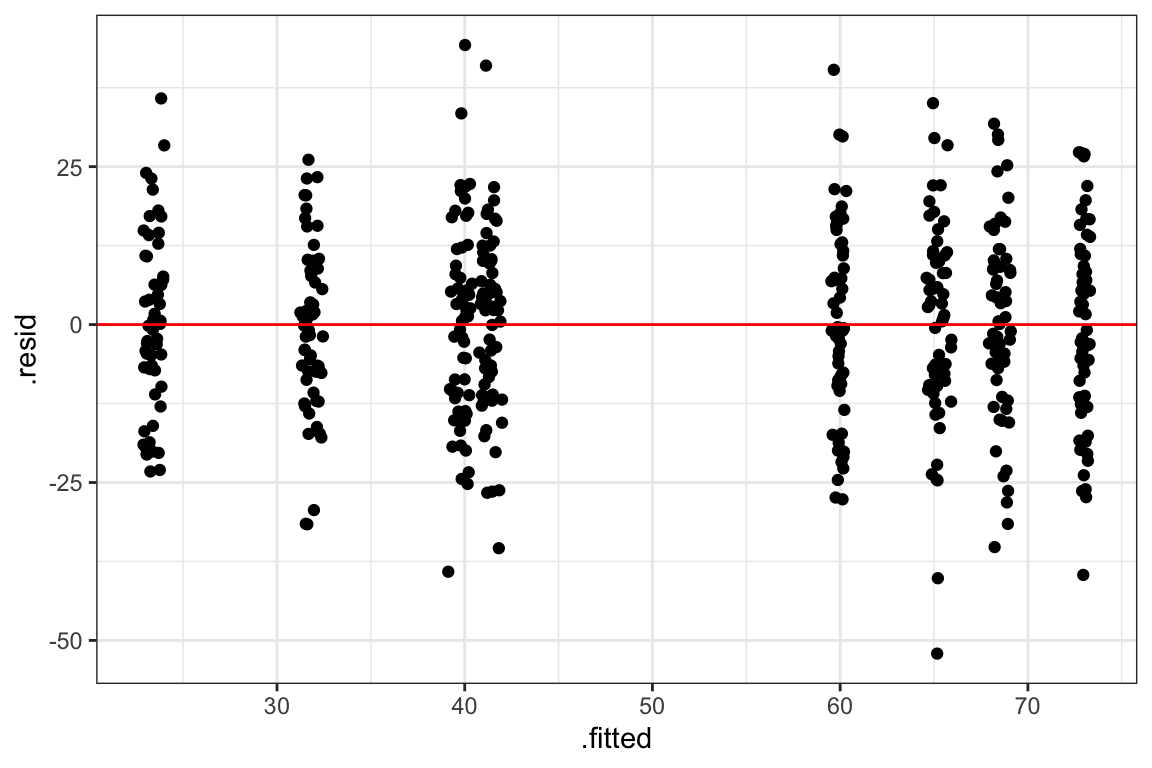
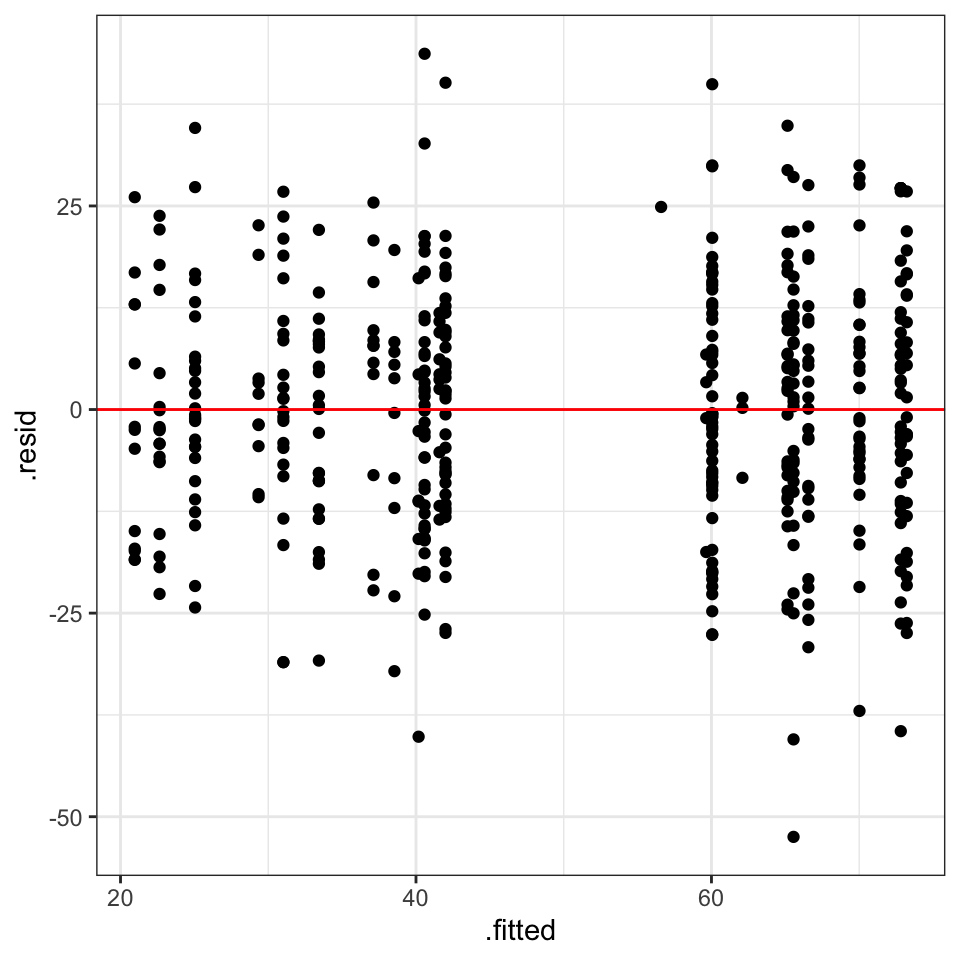
added text

diff --git a/docs/stat-modeling-mixed.html b/docs/stat-modeling-mixed.html
@@ -466,7 +466,7 @@ code span.wa { color: #60a0b0; font-weight: bold; font-style: italic; } /* Warni
 </header><div class="cell">
 
 </div>
-<p><em>Version vom October 10, 2022 um 08:22:48</em></p>
+<p><em>Version vom October 10, 2022 um 09:49:58</em></p>
 <div class="quarto-figure quarto-figure-center">
 <figure class="figure"><p><img src="images/caution.png" class="img-fluid figure-img" style="width:50.0%"></p>
 </figure>
@@ -675,7 +675,7 @@ y \sim f_1 + 1|z_1/z_2
 <div class="cell-output-display">
 <div id="fig-mixed-6" class="quarto-figure quarto-figure-center anchored">
 <figure class="figure"><p><img src="stat-modeling-mixed_files/figure-html/fig-mixed-6-1.png" class="img-fluid figure-img" width="576"></p>
-<p></p><figcaption aria-hidden="true" class="figure-caption">Abbildung 38.4— foo</figcaption><p></p>
+<p></p><figcaption aria-hidden="true" class="figure-caption">Abbildung 38.4— QQ-Plot zu Überprüfung, ob der Testscore einer Normalverteilung folgt. Die Punkte liegen ungefähr auf der Geraden als Winkelhalbierende, so dass wi eine Normalverteilung des Testscores annehmen können.</figcaption><p></p>
 </figure>
 </div>
 </div>
@@ -762,6 +762,7 @@ mountain range [Sarntal]   |       41.03 | 3.30 | [34.54, 47.53] |  12.42 | &lt;
 </div>
 </div>
 </div>
+<p>Der Zusammenhang wird vielleicht in <a href="#fig-mixed-7">Abbildung&nbsp;<span>38.8</span></a> nochmal klarer. Hier schauen wir uns den Zusamenhang wieder für die Körperlänge getrennt für die Berge an. Nur zeichnen wir jetzt jeden einzelnen Berg in ein Subplot. Wir sehen, dass es hier fast keinen Unterschied macht, wie lang die Drachen sind. Der Testscore ist immer gleich. Was einen Unterschied macht, sind die Berge.</p>
 <div class="cell" data-layout-align="center">
 <div class="sourceCode" id="cb13"><pre class="downlit sourceCode r code-with-copy"><code class="sourceCode R"><span><span class="fu">ggplot</span><span class="op">(</span><span class="va">dragons_tbl</span>, <span class="fu">aes</span><span class="op">(</span>x <span class="op">=</span> <span class="va">body_length_cat</span>, y <span class="op">=</span> <span class="va">test_score</span>, fill <span class="op">=</span> <span class="va">mountain_range</span><span class="op">)</span><span class="op">)</span> <span class="op">+</span></span>
 <span>  <span class="fu">geom_boxplot</span><span class="op">(</span>position <span class="op">=</span> <span class="fu">position_dodge</span><span class="op">(</span>preserve <span class="op">=</span> <span class="st">"single"</span><span class="op">)</span><span class="op">)</span> <span class="op">+</span></span>
@@ -773,113 +774,191 @@ mountain range [Sarntal]   |       41.03 | 3.30 | [34.54, 47.53] |  12.42 | &lt;
 <div class="cell-output-display">
 <div id="fig-mixed-7" class="quarto-figure quarto-figure-center anchored">
 <figure class="figure"><p><img src="stat-modeling-mixed_files/figure-html/fig-mixed-7-1.png" class="img-fluid figure-img" width="576"></p>
-<p></p><figcaption aria-hidden="true" class="figure-caption">Abbildung 38.8— foo</figcaption><p></p>
+<p></p><figcaption aria-hidden="true" class="figure-caption">Abbildung 38.8— Boxplots der einzelnen Testscores aufgeteilt nach dem Berg der Befragung und der Körpergröße in getrennten Subplots.</figcaption><p></p>
 </figure>
 </div>
 </div>
 </div>
+<p>Schauen wir uns nun einmal ein lineares gemischtes Modell an. Wir nutzen daszu das R Paket <code>lme4</code>. Wir haben auch noch andere Pakete zur Aswahl, aber wir nutzen hier erstmal das gängiste Paket. Um ein lineares gemischtes Modell in R zu schätzen nutzen wir die Funktion <code>lmer()</code>. Die Funktion <code>lmer()</code> nimmt an, dass das Outcome <code>test_score</code> normalverteilt ist. Wir haben diese Annahme ja weiter oben in dem QQ-Plot überprüft.</p>
+<p>In einem lineare gemischten Modell müssen wir die <em>festen</em> Effekte sowie die <em>zufälligen</em> Effekte definieren. Die festen Effekte werden ganz normal wie wir es gewohnt sind in das Modell eingegeben. Die zufälligen Effkete schreiben wir in eine Klammer in der Form <code>(1|)</code>.</p>
+<p>Wir schreiben <code>(1|moutain_range)</code> und definieren damit die Variable <code>mountain_range</code> als zufälligen Effekt im Modell. Wir schreiben <code>1|</code> vor <code>mountain_range</code>, da wir für jeden Berg die gleiche Steigung von Körperlänge und Testscore annehmen. Wir können dann später noch das Model komplizierter aufbauen und jedem Berg eine eigene Steigung erlauben. Bauen wir uns jetzt erstmal ein lineares gemischtes Modell mit einem festen Effekt <code>body_length_cat</code> und einem zufälligen Effekt <code>(1|mountain_range)</code>.</p>
 <div class="cell">
-<div class="sourceCode" id="cb14"><pre class="downlit sourceCode r code-with-copy"><code class="sourceCode R"><span><span class="va">lmer_1_fit</span> <span class="op">&lt;-</span> <span class="fu">lmer</span><span class="op">(</span><span class="va">test_score</span> <span class="op">~</span> <span class="va">body_length</span> <span class="op">+</span> <span class="op">(</span><span class="fl">1</span> <span class="op">|</span> <span class="va">mountain_range</span><span class="op">)</span>, data <span class="op">=</span> <span class="va">dragons_tbl</span><span class="op">)</span></span>
+<div class="sourceCode" id="cb14"><pre class="downlit sourceCode r code-with-copy"><code class="sourceCode R"><span><span class="va">lmer_1_fit</span> <span class="op">&lt;-</span> <span class="fu">lmer</span><span class="op">(</span><span class="va">test_score</span> <span class="op">~</span> <span class="va">body_length_cat</span> <span class="op">+</span> <span class="op">(</span><span class="fl">1</span> <span class="op">|</span> <span class="va">mountain_range</span><span class="op">)</span>, data <span class="op">=</span> <span class="va">dragons_tbl</span><span class="op">)</span></span>
 <span><span class="va">lmer_1_fit</span> <span class="op">%&gt;%</span> <span class="fu">model_parameters</span><span class="op">(</span><span class="op">)</span></span></code><button title="In die Zwischenablage kopieren" class="code-copy-button"><i class="bi"></i></button></pre></div>
 <div class="cell-output cell-output-stdout">
 <pre><code># Fixed Effects
 
-Parameter   | Coefficient |    SE |         95% CI | t(476) |     p
--------------------------------------------------------------------
-(Intercept) |       43.72 | 17.14 | [10.05, 77.39] |   2.55 | 0.011
-body length |        0.03 |  0.08 | [-0.12,  0.19] |   0.42 | 0.674
+Parameter                  | Coefficient |   SE |         95% CI | t(473) |      p
+----------------------------------------------------------------------------------
+(Intercept)                |       46.85 | 7.43 | [32.25, 61.45] |   6.30 | &lt; .001
+body length cat [small]    |        1.68 | 3.89 | [-5.97,  9.33] |   0.43 | 0.666 
+body length cat [medium]   |        4.08 | 3.71 | [-3.20, 11.37] |   1.10 | 0.271 
+body length cat [large]    |        4.49 | 4.27 | [-3.90, 12.88] |   1.05 | 0.293 
+body length cat [gigantic] |        1.03 | 4.81 | [-8.43, 10.49] |   0.21 | 0.831 
 
 # Random Effects
 
 Parameter                      | Coefficient |   SE |         95% CI
 --------------------------------------------------------------------
-SD (Intercept: mountain_range) |       18.43 | 5.00 | [10.83, 31.36]
+SD (Intercept: mountain_range) |       18.21 | 4.94 | [10.70, 30.98]
 SD (Residual)                  |       14.96 | 0.49 | [14.03, 15.95]</code></pre>
 </div>
 </div>
+<p>Unser Model sieht etwas aufgeräumter aus. Als feste Effekte haben wir nur noch die Körperlänge <code>body_length_cat</code> und die dazugehörigen Koeffizienten des Modells. Unsere Variable <code>mountain_range</code> verschwindet dann in den zufälligen Effekten. Die Funktion <code>summary</code> liefert uns den gesamten Ausdruck, der etwas überwältigend ist. Vieles brauchen wir auch nicht davon.</p>
 <div class="cell column-page">
-<div class="sourceCode" id="cb16"><pre class="downlit sourceCode r code-with-copy"><code class="sourceCode R"><span><span class="va">lmer_1_fit</span> <span class="op">%&gt;%</span> <span class="fu">model_performance</span><span class="op">(</span><span class="op">)</span></span></code><button title="In die Zwischenablage kopieren" class="code-copy-button"><i class="bi"></i></button></pre></div>
+<div class="sourceCode" id="cb16"><pre class="downlit sourceCode r code-with-copy"><code class="sourceCode R"><span><span class="va">lmer_1_fit</span> <span class="op">%&gt;%</span> <span class="fu"><a href="https://rdrr.io/r/base/summary.html">summary</a></span><span class="op">(</span><span class="op">)</span></span></code><button title="In die Zwischenablage kopieren" class="code-copy-button"><i class="bi"></i></button></pre></div>
+<div class="cell-output cell-output-stdout">
+<pre><code>Linear mixed model fit by REML ['lmerMod']
+Formula: test_score ~ body_length_cat + (1 | mountain_range)
+   Data: dragons_tbl
+
+REML criterion at convergence: 3969.4
+
+Scaled residuals: 
+     Min       1Q   Median       3Q      Max 
+-3.50749 -0.65640 -0.00040  0.63783  2.92009 
+
+Random effects:
+ Groups         Name        Variance Std.Dev.
+ mountain_range (Intercept) 331.42   18.205  
+ Residual                   223.83   14.961  
+Number of obs: 480, groups:  mountain_range, 8
+
+Fixed effects:
+                        Estimate Std. Error t value
+(Intercept)              46.8501     7.4310  6.3047
+body_length_catsmall      1.6794     3.8930  0.4314
+body_length_catmedium     4.0837     3.7084  1.1012
+body_length_catlarge      4.4895     4.2684  1.0518
+body_length_catgigantic   1.0296     4.8131  0.2139
+
+Correlation of Fixed Effects:
+              (Intr) bdy_lngth_cts bdy_lngth_ctm bdy_lngth_ctl
+bdy_lngth_cts -0.338                                          
+bdy_lngth_ctm -0.461  0.677                                   
+bdy_lngth_ctl -0.480  0.589         0.865                     
+bdy_lngth_ctg -0.434  0.522         0.767         0.856       </code></pre>
+</div>
+</div>
+<p>Was wir extrahieren wollen ist die Information von den zufälligen Effekten. Wir wollen wissen, wieviel Varianz durch die zufälligen Effekte erklärt wird. Wir nutzen dazu die Funktion <code>VarCorr()</code>, die uns erlaubt die Information zu en zufälligen Effekten zu extrahieren und auszugeben.</p>
+<div class="cell">
+<div class="sourceCode" id="cb18"><pre class="downlit sourceCode r code-with-copy"><code class="sourceCode R"><span><span class="fu"><a href="https://rdrr.io/r/base/print.html">print</a></span><span class="op">(</span><span class="fu">VarCorr</span><span class="op">(</span><span class="va">lmer_1_fit</span><span class="op">)</span>, comp <span class="op">=</span> <span class="st">"Variance"</span><span class="op">)</span></span></code><button title="In die Zwischenablage kopieren" class="code-copy-button"><i class="bi"></i></button></pre></div>
+<div class="cell-output cell-output-stdout">
+<pre><code> Groups         Name        Variance
+ mountain_range (Intercept) 331.422 
+ Residual                   223.828 </code></pre>
+</div>
+</div>
+<p>Wieviel Varianz erklären nun die Berge? Wir können die erklärte Varianz der zufälligen Effekte einfach berechnen. Wir vergleichen die erklärte Varianz von <code>mountain_range</code> mit der gesamten Varianz. Die gesamte Varianz ist die Varianz aller zufälligen Effekte plus der residualen Vamrianz. Wir erhalten dann <span class="math inline">\(R^2_{random} = 339.7/(339.7 + 223.8) \approx 0.60\)</span>. Wir sehen, dass ca. 60% der Varianz in unseren Daten von der Variable <code>mountain_range</code> verursacht wird.</p>
+<p>Wir können die Funktion <code>model_performance()</code> nutzen um mehr über den Fit des Modells zu erfahren. Das <code>R2 (cond.)</code> ist faktisch das gleiche wie wir gerade oben berechnet haben. Wir benötigen also nicht immer den Ausdruck der zufälligen Effekte. Wir können auch die Informationen aus der Funktion <code>model_performance()</code> nehmen.</p>
+<div class="cell">
+<div class="sourceCode" id="cb20"><pre class="downlit sourceCode r code-with-copy"><code class="sourceCode R"><span><span class="va">lmer_1_fit</span> <span class="op">%&gt;%</span> <span class="fu">model_performance</span><span class="op">(</span><span class="op">)</span></span></code><button title="In die Zwischenablage kopieren" class="code-copy-button"><i class="bi"></i></button></pre></div>
 <div class="cell-output cell-output-stdout">
 <pre><code># Indices of model performance
 
 AIC      |     AICc |      BIC | R2 (cond.) | R2 (marg.) |   ICC |   RMSE |  Sigma
 ----------------------------------------------------------------------------------
-3999.203 | 3999.287 | 4015.898 |      0.603 |  5.117e-04 | 0.603 | 14.821 | 14.960</code></pre>
+3983.403 | 3983.640 | 4012.620 |      0.598 |      0.004 | 0.597 | 14.774 | 14.961</code></pre>
 </div>
 </div>
-<div class="cell" data-layout-align="center">
-<div class="sourceCode" id="cb18"><pre class="downlit sourceCode r code-with-copy"><code class="sourceCode R"><span><span class="fu">augment</span><span class="op">(</span><span class="va">lmer_1_fit</span><span class="op">)</span> <span class="op">%&gt;%</span> </span>
-<span>  <span class="fu">ggplot</span><span class="op">(</span><span class="fu">aes</span><span class="op">(</span>x <span class="op">=</span> <span class="va">.fitted</span>, y <span class="op">=</span> <span class="va">.resid</span><span class="op">)</span><span class="op">)</span> <span class="op">+</span> </span>
-<span>  <span class="fu">geom_point</span><span class="op">(</span><span class="op">)</span> <span class="op">+</span></span>
-<span>  <span class="fu">geom_hline</span><span class="op">(</span>yintercept <span class="op">=</span> <span class="fl">0</span>, color <span class="op">=</span> <span class="st">"red"</span><span class="op">)</span> <span class="op">+</span></span>
-<span>  <span class="fu">theme_bw</span><span class="op">(</span><span class="op">)</span> <span class="op">+</span></span>
-<span>  <span class="fu">scale_color_okabeito</span><span class="op">(</span><span class="op">)</span></span></code><button title="In die Zwischenablage kopieren" class="code-copy-button"><i class="bi"></i></button></pre></div>
-<div class="cell-output-display">
-<div id="fig-mixed-8" class="quarto-figure quarto-figure-center anchored">
-<figure class="figure"><p><img src="stat-modeling-mixed_files/figure-html/fig-mixed-8-1.png" class="img-fluid figure-img" width="576"></p>
-<p></p><figcaption aria-hidden="true" class="figure-caption">Abbildung 38.9— foo</figcaption><p></p>
+<p>In der Abbildung <a href="#fig-mixed-8">Abbildung&nbsp;<span>38.9</span></a> schauen wir uns nochmal an, ob wir das Modell auch gut gefittet haben. Der Residualplot sieht gut aus, wir erkennen kein Muster. Ebenso sieht der QQ-Plot gut aus, die Beobachtungen liegen alle auf der Geraden. Wir sind mit dem Modell soweit erstmal ganz zufrieden.</p>
+<div id="fig-mixed-8" class="cell column-page quarto-layout-panel">
+<figure class="figure"><div class="quarto-layout-row quarto-layout-valign-top">
+<div class="cell-output-display quarto-layout-cell quarto-layout-cell-subref" style="flex-basis: 50.0%;justify-content: center;">
+<div id="fig-mixed-8-1" class="quarto-figure quarto-figure-center anchored">
+<figure class="figure"><p><img src="stat-modeling-mixed_files/figure-html/fig-mixed-8-1.png" class="img-fluid figure-img" data-ref-parent="fig-mixed-8" width="480"></p>
+<p></p><figcaption aria-hidden="true" class="figure-caption">(a) Residualplot</figcaption><p></p>
+</figure>
+</div>
+</div>
+<div class="cell-output-display quarto-layout-cell quarto-layout-cell-subref" style="flex-basis: 50.0%;justify-content: center;">
+<div id="fig-mixed-8-2" class="quarto-figure quarto-figure-center anchored">
+<figure class="figure"><p><img src="stat-modeling-mixed_files/figure-html/fig-mixed-8-2.png" class="img-fluid figure-img" data-ref-parent="fig-mixed-8" width="480"></p>
+<p></p><figcaption aria-hidden="true" class="figure-caption">(b) QQ-Plot</figcaption><p></p>
 </figure>
 </div>
 </div>
 </div>
-<div class="cell" data-layout-align="center">
-<div class="sourceCode" id="cb19"><pre class="downlit sourceCode r code-with-copy"><code class="sourceCode R"><span><span class="fu">ggplot</span><span class="op">(</span><span class="fu">tibble</span><span class="op">(</span>.resid <span class="op">=</span> <span class="fu"><a href="https://rdrr.io/r/stats/residuals.html">resid</a></span><span class="op">(</span><span class="va">lmer_1_fit</span><span class="op">)</span><span class="op">)</span>, <span class="fu">aes</span><span class="op">(</span>sample <span class="op">=</span> <span class="va">.resid</span><span class="op">)</span><span class="op">)</span> <span class="op">+</span> </span>
-<span>  <span class="fu">stat_qq</span><span class="op">(</span><span class="op">)</span> <span class="op">+</span> </span>
-<span>  <span class="fu">stat_qq_line</span><span class="op">(</span>color <span class="op">=</span> <span class="st">"red"</span><span class="op">)</span> <span class="op">+</span></span>
-<span>  <span class="fu">theme_bw</span><span class="op">(</span><span class="op">)</span></span></code><button title="In die Zwischenablage kopieren" class="code-copy-button"><i class="bi"></i></button></pre></div>
-<div class="cell-output-display">
-<div id="fig-mixed-9" class="quarto-figure quarto-figure-center anchored">
-<figure class="figure"><p><img src="stat-modeling-mixed_files/figure-html/fig-mixed-9-1.png" class="img-fluid figure-img" width="576"></p>
-<p></p><figcaption aria-hidden="true" class="figure-caption">Abbildung 38.10— foo</figcaption><p></p>
+<p></p><figcaption aria-hidden="true" class="figure-caption">Abbildung 38.9— Visuelle Überprüfung des Modells mit dem Residual und QQ-Plot.</figcaption><p></p>
 </figure>
-</div>
-</div>
 </div>
 <div class="cell">
-<div class="sourceCode" id="cb20"><pre class="downlit sourceCode r code-with-copy"><code class="sourceCode R"><span><span class="va">lmer_2_fit</span> <span class="op">&lt;-</span> <span class="fu">lmer</span><span class="op">(</span><span class="va">test_score</span> <span class="op">~</span> <span class="va">body_length</span> <span class="op">+</span> <span class="op">(</span><span class="fl">1</span><span class="op">|</span><span class="va">mountain_range</span><span class="op">/</span><span class="va">site</span><span class="op">)</span>, data <span class="op">=</span> <span class="va">dragons_tbl</span><span class="op">)</span> </span>
+<div class="sourceCode" id="cb22"><pre class="downlit sourceCode r code-with-copy"><code class="sourceCode R"><span><span class="va">lmer_2_fit</span> <span class="op">&lt;-</span> <span class="fu">lmer</span><span class="op">(</span><span class="va">test_score</span> <span class="op">~</span> <span class="va">body_length_cat</span> <span class="op">+</span> <span class="op">(</span><span class="fl">1</span><span class="op">|</span><span class="va">mountain_range</span><span class="op">/</span><span class="va">site</span><span class="op">)</span>, data <span class="op">=</span> <span class="va">dragons_tbl</span><span class="op">)</span> </span>
 <span><span class="va">lmer_2_fit</span> <span class="op">%&gt;%</span> <span class="fu">model_parameters</span><span class="op">(</span><span class="op">)</span></span></code><button title="In die Zwischenablage kopieren" class="code-copy-button"><i class="bi"></i></button></pre></div>
 <div class="cell-output cell-output-stdout">
 <pre><code># Fixed Effects
 
-Parameter   | Coefficient |    SE |         95% CI | t(475) |     p
--------------------------------------------------------------------
-(Intercept) |       40.08 | 21.86 | [-2.88, 83.05] |   1.83 | 0.067
-body length |        0.05 |  0.10 | [-0.15,  0.25] |   0.49 | 0.622
+Parameter                  | Coefficient |   SE |          95% CI | t(472) |      p
+-----------------------------------------------------------------------------------
+(Intercept)                |       46.89 | 7.80 | [ 31.56, 62.22] |   6.01 | &lt; .001
+body length cat [small]    |        1.32 | 3.99 | [ -6.51,  9.16] |   0.33 | 0.740 
+body length cat [medium]   |        3.34 | 4.61 | [ -5.73, 12.41] |   0.72 | 0.470 
+body length cat [large]    |        4.85 | 5.15 | [ -5.26, 14.97] |   0.94 | 0.346 
+body length cat [gigantic] |        1.37 | 5.83 | [-10.08, 12.83] |   0.24 | 0.814 
 
 # Random Effects
 
 Parameter                           | Coefficient |   SE |         95% CI
 -------------------------------------------------------------------------
-SD (Intercept: site:mountain_range) |        4.81 | 1.26 | [ 2.87,  8.03]
-SD (Intercept: mountain_range)      |       18.10 | 5.04 | [10.49, 31.23]
-SD (Residual)                       |       14.44 | 0.48 | [13.53, 15.41]</code></pre>
+SD (Intercept: site:mountain_range) |        4.79 | 1.29 | [ 2.83,  8.12]
+SD (Intercept: mountain_range)      |       17.88 | 4.97 | [10.36, 30.84]
+SD (Residual)                       |       14.46 | 0.48 | [13.55, 15.43]</code></pre>
+</div>
+</div>
+<div class="cell">
+<div class="sourceCode" id="cb24"><pre class="downlit sourceCode r code-with-copy"><code class="sourceCode R"><span><span class="va">lmer_3_fit</span> <span class="op">&lt;-</span> <span class="fu">lmer</span><span class="op">(</span><span class="va">test_score</span> <span class="op">~</span> <span class="va">body_length_cat</span> <span class="op">+</span> <span class="op">(</span><span class="va">site</span><span class="op">|</span><span class="va">mountain_range</span><span class="op">)</span>, data <span class="op">=</span> <span class="va">dragons_tbl</span><span class="op">)</span> </span>
+<span><span class="va">lmer_3_fit</span> <span class="op">%&gt;%</span> <span class="fu">model_parameters</span><span class="op">(</span><span class="op">)</span></span></code><button title="In die Zwischenablage kopieren" class="code-copy-button"><i class="bi"></i></button></pre></div>
+<div class="cell-output cell-output-stdout">
+<pre><code># Fixed Effects
+
+Parameter                  | Coefficient |   SE |          95% CI | t(468) |      p
+-----------------------------------------------------------------------------------
+(Intercept)                |       44.69 | 7.52 | [ 29.91, 59.46] |   5.94 | &lt; .001
+body length cat [small]    |        1.08 | 3.96 | [ -6.70,  8.86] |   0.27 | 0.785 
+body length cat [medium]   |        3.61 | 4.75 | [ -5.72, 12.94] |   0.76 | 0.447 
+body length cat [large]    |        5.13 | 5.25 | [ -5.17, 15.44] |   0.98 | 0.328 
+body length cat [gigantic] |        1.69 | 5.99 | [-10.08, 13.47] |   0.28 | 0.778 
+
+# Random Effects
+
+Parameter                                 | Coefficient |   SE |         95% CI
+-------------------------------------------------------------------------------
+SD (Intercept: mountain_range)            |       17.97 | 5.01 | [10.40, 31.05]
+SD (siteeast: mountain_range)             |        5.42 | 6.23 | [ 0.57, 51.48]
+SD (sitesouth: mountain_range)            |        8.31 | 2.89 | [ 4.21, 16.42]
+Cor (Intercept~siteeast: mountain_range)  |       -0.23 | 0.52 | [-0.87,  0.69]
+Cor (Intercept~sitesouth: mountain_range) |    7.15e-03 | 0.17 | [-0.32,  0.34]
+Cor (siteeast~sitesouth: mountain_range)  |        0.66 | 0.65 | [-0.89,  1.00]
+SD (Residual)                             |       14.46 | 0.48 | [13.55, 15.44]</code></pre>
 </div>
 </div>
 <div class="cell column-page">
-<div class="sourceCode" id="cb22"><pre class="downlit sourceCode r code-with-copy"><code class="sourceCode R"><span><span class="va">lmer_2_fit</span> <span class="op">%&gt;%</span> <span class="fu">model_performance</span><span class="op">(</span><span class="op">)</span></span></code><button title="In die Zwischenablage kopieren" class="code-copy-button"><i class="bi"></i></button></pre></div>
+<div class="sourceCode" id="cb26"><pre class="downlit sourceCode r code-with-copy"><code class="sourceCode R"><span><span class="va">lmer_2_fit</span> <span class="op">%&gt;%</span> <span class="fu">model_performance</span><span class="op">(</span><span class="op">)</span></span></code><button title="In die Zwischenablage kopieren" class="code-copy-button"><i class="bi"></i></button></pre></div>
 <div class="cell-output cell-output-stdout">
 <pre><code># Indices of model performance
 
 AIC      |     AICc |      BIC | R2 (cond.) | R2 (marg.) |   ICC |   RMSE |  Sigma
 ----------------------------------------------------------------------------------
-3985.961 | 3986.087 | 4006.829 |      0.628 |      0.001 | 0.627 | 14.144 | 14.442</code></pre>
+3970.693 | 3970.999 | 4004.084 |      0.623 |      0.004 | 0.621 | 14.120 | 14.460</code></pre>
 </div>
 </div>
 <div class="cell">
-<div class="sourceCode" id="cb24"><pre class="downlit sourceCode r code-with-copy"><code class="sourceCode R"><span><span class="fu">compare_performance</span><span class="op">(</span><span class="va">lm_simple_fit</span>, <span class="va">lm_mountain_fit</span>, <span class="va">lmer_1_fit</span>, <span class="va">lmer_2_fit</span>,rank <span class="op">=</span> <span class="cn">TRUE</span><span class="op">)</span></span></code><button title="In die Zwischenablage kopieren" class="code-copy-button"><i class="bi"></i></button></pre></div>
+<div class="sourceCode" id="cb28"><pre class="downlit sourceCode r code-with-copy"><code class="sourceCode R"><span><span class="fu">compare_performance</span><span class="op">(</span><span class="va">lm_simple_fit</span>, <span class="va">lm_mountain_fit</span>, <span class="va">lmer_1_fit</span>, <span class="va">lmer_2_fit</span>,</span>
+<span>                    <span class="va">lmer_3_fit</span>, rank <span class="op">=</span> <span class="cn">TRUE</span><span class="op">)</span></span></code><button title="In die Zwischenablage kopieren" class="code-copy-button"><i class="bi"></i></button></pre></div>
 <div class="cell-output cell-output-stdout">
 <pre><code># Comparison of Model Performance Indices
 
 Name            |   Model |   RMSE |  Sigma | AIC weights | BIC weights | Performance-Score
 -------------------------------------------------------------------------------------------
-lmer_2_fit      | lmerMod | 14.144 | 14.442 |    4.02e-04 |       0.986 |            75.01%
-lm_mountain_fit |      lm | 14.772 | 14.960 |       1.000 |    1.38e-04 |            70.55%
-lmer_1_fit      | lmerMod | 14.821 | 14.960 |    7.01e-07 |       0.014 |            45.71%
-lm_simple_fit   |      lm | 20.661 | 20.770 |    1.24e-67 |    3.78e-65 |             0.00%</code></pre>
+lm_mountain_fit |      lm | 14.772 | 14.960 |       1.000 |       0.330 |            83.11%
+lmer_2_fit      | lmerMod | 14.120 | 14.460 |    5.84e-05 |       0.655 |            75.00%
+lmer_3_fit      | lmerMod | 14.135 | 14.463 |    2.26e-06 |    6.00e-06 |            49.93%
+lmer_1_fit      | lmerMod | 14.774 | 14.961 |    1.72e-07 |       0.016 |            46.11%
+lm_simple_fit   |      lm | 20.661 | 20.770 |    1.24e-67 |    9.06e-62 |             0.00%</code></pre>
 </div>
 </div>
 <div class="cell" data-layout-align="center">
-<div class="sourceCode" id="cb26"><pre class="downlit sourceCode r code-with-copy"><code class="sourceCode R"><span><span class="fu">ggplot</span><span class="op">(</span><span class="va">dragons_tbl</span>, <span class="fu">aes</span><span class="op">(</span>x <span class="op">=</span> <span class="va">body_length</span>, y <span class="op">=</span> <span class="va">test_score</span>, colour <span class="op">=</span> <span class="va">site</span><span class="op">)</span><span class="op">)</span> <span class="op">+</span></span>
+<div class="sourceCode" id="cb30"><pre class="downlit sourceCode r code-with-copy"><code class="sourceCode R"><span><span class="fu">ggplot</span><span class="op">(</span><span class="va">dragons_tbl</span>, <span class="fu">aes</span><span class="op">(</span>x <span class="op">=</span> <span class="va">body_length</span>, y <span class="op">=</span> <span class="va">test_score</span>, colour <span class="op">=</span> <span class="va">site</span><span class="op">)</span><span class="op">)</span> <span class="op">+</span></span>
 <span>  <span class="fu">facet_wrap</span><span class="op">(</span><span class="op">~</span><span class="va">mountain_range</span>, nrow<span class="op">=</span><span class="fl">3</span><span class="op">)</span> <span class="op">+</span></span>
 <span>  <span class="fu">theme_bw</span><span class="op">(</span><span class="op">)</span> <span class="op">+</span></span>
 <span>  <span class="fu">geom_point</span><span class="op">(</span><span class="op">)</span> <span class="op">+</span></span>
@@ -889,13 +968,13 @@ lm_simple_fit   |      lm | 20.661 | 20.770 |    1.24e-67 |    3.78e-65 |       
 <div class="cell-output-display">
 <div id="fig-mixed-10" class="quarto-figure quarto-figure-center anchored">
 <figure class="figure"><p><img src="stat-modeling-mixed_files/figure-html/fig-mixed-10-1.png" class="img-fluid figure-img" width="576"></p>
-<p></p><figcaption aria-hidden="true" class="figure-caption">Abbildung 38.11— foo</figcaption><p></p>
+<p></p><figcaption aria-hidden="true" class="figure-caption">Abbildung 38.10— foo</figcaption><p></p>
 </figure>
 </div>
 </div>
 </div>
 <div class="cell column-page">
-<div class="sourceCode" id="cb27"><pre class="downlit sourceCode r code-with-copy"><code class="sourceCode R"><span><span class="va">lmer_3_fit</span> <span class="op">&lt;-</span> <span class="fu">lmer</span><span class="op">(</span><span class="va">test_score</span> <span class="op">~</span> <span class="va">body_length_cat</span> <span class="op">+</span> <span class="op">(</span><span class="fl">1</span> <span class="op">|</span> <span class="va">mountain_range</span><span class="op">/</span><span class="va">site</span><span class="op">)</span>, data <span class="op">=</span> <span class="va">dragons_tbl</span><span class="op">)</span></span>
+<div class="sourceCode" id="cb31"><pre class="downlit sourceCode r code-with-copy"><code class="sourceCode R"><span><span class="va">lmer_3_fit</span> <span class="op">&lt;-</span> <span class="fu">lmer</span><span class="op">(</span><span class="va">test_score</span> <span class="op">~</span> <span class="va">body_length_cat</span> <span class="op">+</span> <span class="op">(</span><span class="fl">1</span> <span class="op">|</span> <span class="va">mountain_range</span><span class="op">/</span><span class="va">site</span><span class="op">)</span>, data <span class="op">=</span> <span class="va">dragons_tbl</span><span class="op">)</span></span>
 <span><span class="va">lmer_3_fit</span> <span class="op">%&gt;%</span> <span class="fu">model_parameters</span><span class="op">(</span><span class="op">)</span></span></code><button title="In die Zwischenablage kopieren" class="code-copy-button"><i class="bi"></i></button></pre></div>
 <div class="cell-output cell-output-stdout">
 <pre><code># Fixed Effects
@@ -918,11 +997,11 @@ SD (Residual)                       |       14.46 | 0.48 | [13.55, 15.43]</code>
 </div>
 </div>
 <div class="cell">
-<div class="sourceCode" id="cb29"><pre class="downlit sourceCode r code-with-copy"><code class="sourceCode R"><span><span class="va">res_lmer</span> <span class="op">&lt;-</span> <span class="va">lmer_3_fit</span> <span class="op">%&gt;%</span> </span>
+<div class="sourceCode" id="cb33"><pre class="downlit sourceCode r code-with-copy"><code class="sourceCode R"><span><span class="va">res_lmer</span> <span class="op">&lt;-</span> <span class="va">lmer_3_fit</span> <span class="op">%&gt;%</span> </span>
 <span>  <span class="fu">emmeans</span><span class="op">(</span><span class="op">~</span> <span class="va">body_length_cat</span><span class="op">)</span> </span></code><button title="In die Zwischenablage kopieren" class="code-copy-button"><i class="bi"></i></button></pre></div>
 </div>
 <div class="cell">
-<div class="sourceCode" id="cb30"><pre class="downlit sourceCode r code-with-copy"><code class="sourceCode R"><span><span class="va">res_lmer_cld</span> <span class="op">&lt;-</span> <span class="va">res_lmer</span> <span class="op">%&gt;%</span> </span>
+<div class="sourceCode" id="cb34"><pre class="downlit sourceCode r code-with-copy"><code class="sourceCode R"><span><span class="va">res_lmer_cld</span> <span class="op">&lt;-</span> <span class="va">res_lmer</span> <span class="op">%&gt;%</span> </span>
 <span>  <span class="fu">cld</span><span class="op">(</span>adjust <span class="op">=</span> <span class="st">"bonferroni"</span>, Letters <span class="op">=</span> <span class="va">letters</span><span class="op">)</span> <span class="op">%&gt;%</span> </span>
 <span>  <span class="fu">tidy</span><span class="op">(</span><span class="op">)</span> <span class="op">%&gt;%</span> </span>
 <span>  <span class="fu">select</span><span class="op">(</span><span class="va">body_length_cat</span>, <span class="va">estimate</span>, <span class="va">conf.low</span>, <span class="va">conf.high</span>, <span class="va">.group</span><span class="op">)</span> <span class="op">%&gt;%</span> </span>
@@ -941,7 +1020,7 @@ SD (Residual)                       |       14.46 | 0.48 | [13.55, 15.43]</code>
 </div>
 </div>
 <div class="cell" data-layout-align="center">
-<div class="sourceCode" id="cb32"><pre class="downlit sourceCode r code-with-copy"><code class="sourceCode R"><span><span class="fu">ggplot</span><span class="op">(</span><span class="op">)</span> <span class="op">+</span></span>
+<div class="sourceCode" id="cb36"><pre class="downlit sourceCode r code-with-copy"><code class="sourceCode R"><span><span class="fu">ggplot</span><span class="op">(</span><span class="op">)</span> <span class="op">+</span></span>
 <span>  <span class="fu">theme_bw</span><span class="op">(</span><span class="op">)</span> <span class="op">+</span></span>
 <span>  <span class="fu">geom_point</span><span class="op">(</span>data <span class="op">=</span> <span class="va">dragons_tbl</span>, <span class="fu">aes</span><span class="op">(</span>x <span class="op">=</span> <span class="va">body_length_cat</span>, y <span class="op">=</span> <span class="va">test_score</span><span class="op">)</span><span class="op">)</span> <span class="op">+</span></span>
 <span>  <span class="fu">geom_text</span><span class="op">(</span>data <span class="op">=</span> <span class="va">res_lmer_cld</span>, </span>
@@ -962,13 +1041,13 @@ SD (Residual)                       |       14.46 | 0.48 | [13.55, 15.43]</code>
 <div class="cell-output-display">
 <div id="fig-cld-rcbd" class="quarto-figure quarto-figure-center anchored">
 <figure class="figure"><p><img src="stat-modeling-mixed_files/figure-html/fig-cld-rcbd-1.png" class="img-fluid figure-img" width="576"></p>
-<p></p><figcaption aria-hidden="true" class="figure-caption">Abbildung 38.12— Scatterplot der Behandlungsgruppen zusammen mit den 95% Konfidenzintervall und dem <em>compact letter display</em>.</figcaption><p></p>
+<p></p><figcaption aria-hidden="true" class="figure-caption">Abbildung 38.11— Scatterplot der Behandlungsgruppen zusammen mit den 95% Konfidenzintervall und dem <em>compact letter display</em>.</figcaption><p></p>
 </figure>
 </div>
 </div>
 </div>
 <div class="cell">
-<div class="sourceCode" id="cb33"><pre class="downlit sourceCode r code-with-copy"><code class="sourceCode R"><span><span class="va">res_lmer_tbl</span> <span class="op">&lt;-</span> <span class="va">res_lmer</span> <span class="op">%&gt;%</span> </span>
+<div class="sourceCode" id="cb37"><pre class="downlit sourceCode r code-with-copy"><code class="sourceCode R"><span><span class="va">res_lmer_tbl</span> <span class="op">&lt;-</span> <span class="va">res_lmer</span> <span class="op">%&gt;%</span> </span>
 <span>  <span class="fu">contrast</span><span class="op">(</span>method <span class="op">=</span> <span class="st">"pairwise"</span><span class="op">)</span> <span class="op">%&gt;%</span> </span>
 <span>  <span class="fu">tidy</span><span class="op">(</span>conf.int <span class="op">=</span> <span class="cn">TRUE</span><span class="op">)</span> <span class="op">%&gt;%</span> </span>
 <span>  <span class="fu">mutate</span><span class="op">(</span>p.value <span class="op">=</span> <span class="fu">pvalue</span><span class="op">(</span><span class="va">adj.p.value</span><span class="op">)</span>,</span>
@@ -994,7 +1073,7 @@ SD (Residual)                       |       14.46 | 0.48 | [13.55, 15.43]</code>
 </div>
 </div>
 <div class="cell" data-layout-align="center">
-<div class="sourceCode" id="cb35"><pre class="downlit sourceCode r code-with-copy"><code class="sourceCode R"><span><span class="fu">ggplot</span><span class="op">(</span><span class="va">res_lmer_tbl</span>, <span class="fu">aes</span><span class="op">(</span><span class="va">contrast</span>, y<span class="op">=</span><span class="va">estimate</span>, ymin<span class="op">=</span><span class="va">conf.low</span>, ymax<span class="op">=</span><span class="va">conf.high</span><span class="op">)</span><span class="op">)</span> <span class="op">+</span></span>
+<div class="sourceCode" id="cb39"><pre class="downlit sourceCode r code-with-copy"><code class="sourceCode R"><span><span class="fu">ggplot</span><span class="op">(</span><span class="va">res_lmer_tbl</span>, <span class="fu">aes</span><span class="op">(</span><span class="va">contrast</span>, y<span class="op">=</span><span class="va">estimate</span>, ymin<span class="op">=</span><span class="va">conf.low</span>, ymax<span class="op">=</span><span class="va">conf.high</span><span class="op">)</span><span class="op">)</span> <span class="op">+</span></span>
 <span>  <span class="fu">geom_hline</span><span class="op">(</span>yintercept<span class="op">=</span><span class="fl">0</span>, linetype<span class="op">=</span><span class="st">"11"</span>, colour<span class="op">=</span><span class="st">"grey60"</span><span class="op">)</span> <span class="op">+</span></span>
 <span>  <span class="fu">geom_errorbar</span><span class="op">(</span>width<span class="op">=</span><span class="fl">0.1</span><span class="op">)</span> <span class="op">+</span> </span>
 <span>  <span class="fu">geom_point</span><span class="op">(</span><span class="op">)</span> <span class="op">+</span></span>
@@ -1006,7 +1085,7 @@ SD (Residual)                       |       14.46 | 0.48 | [13.55, 15.43]</code>
 <div class="cell-output-display">
 <div id="fig-emmeans-rcbd-ci" class="quarto-figure quarto-figure-center anchored">
 <figure class="figure"><p><img src="stat-modeling-mixed_files/figure-html/fig-emmeans-rcbd-ci-1.png" class="img-fluid figure-img" width="576"></p>
-<p></p><figcaption aria-hidden="true" class="figure-caption">Abbildung 38.13— Abbildung der 95% Konfidenzintervallefür alle paarweisen Vergleiche der Behandlungsgruppen.</figcaption><p></p>
+<p></p><figcaption aria-hidden="true" class="figure-caption">Abbildung 38.12— Abbildung der 95% Konfidenzintervallefür alle paarweisen Vergleiche der Behandlungsgruppen.</figcaption><p></p>
 </figure>
 </div>
 </div>
